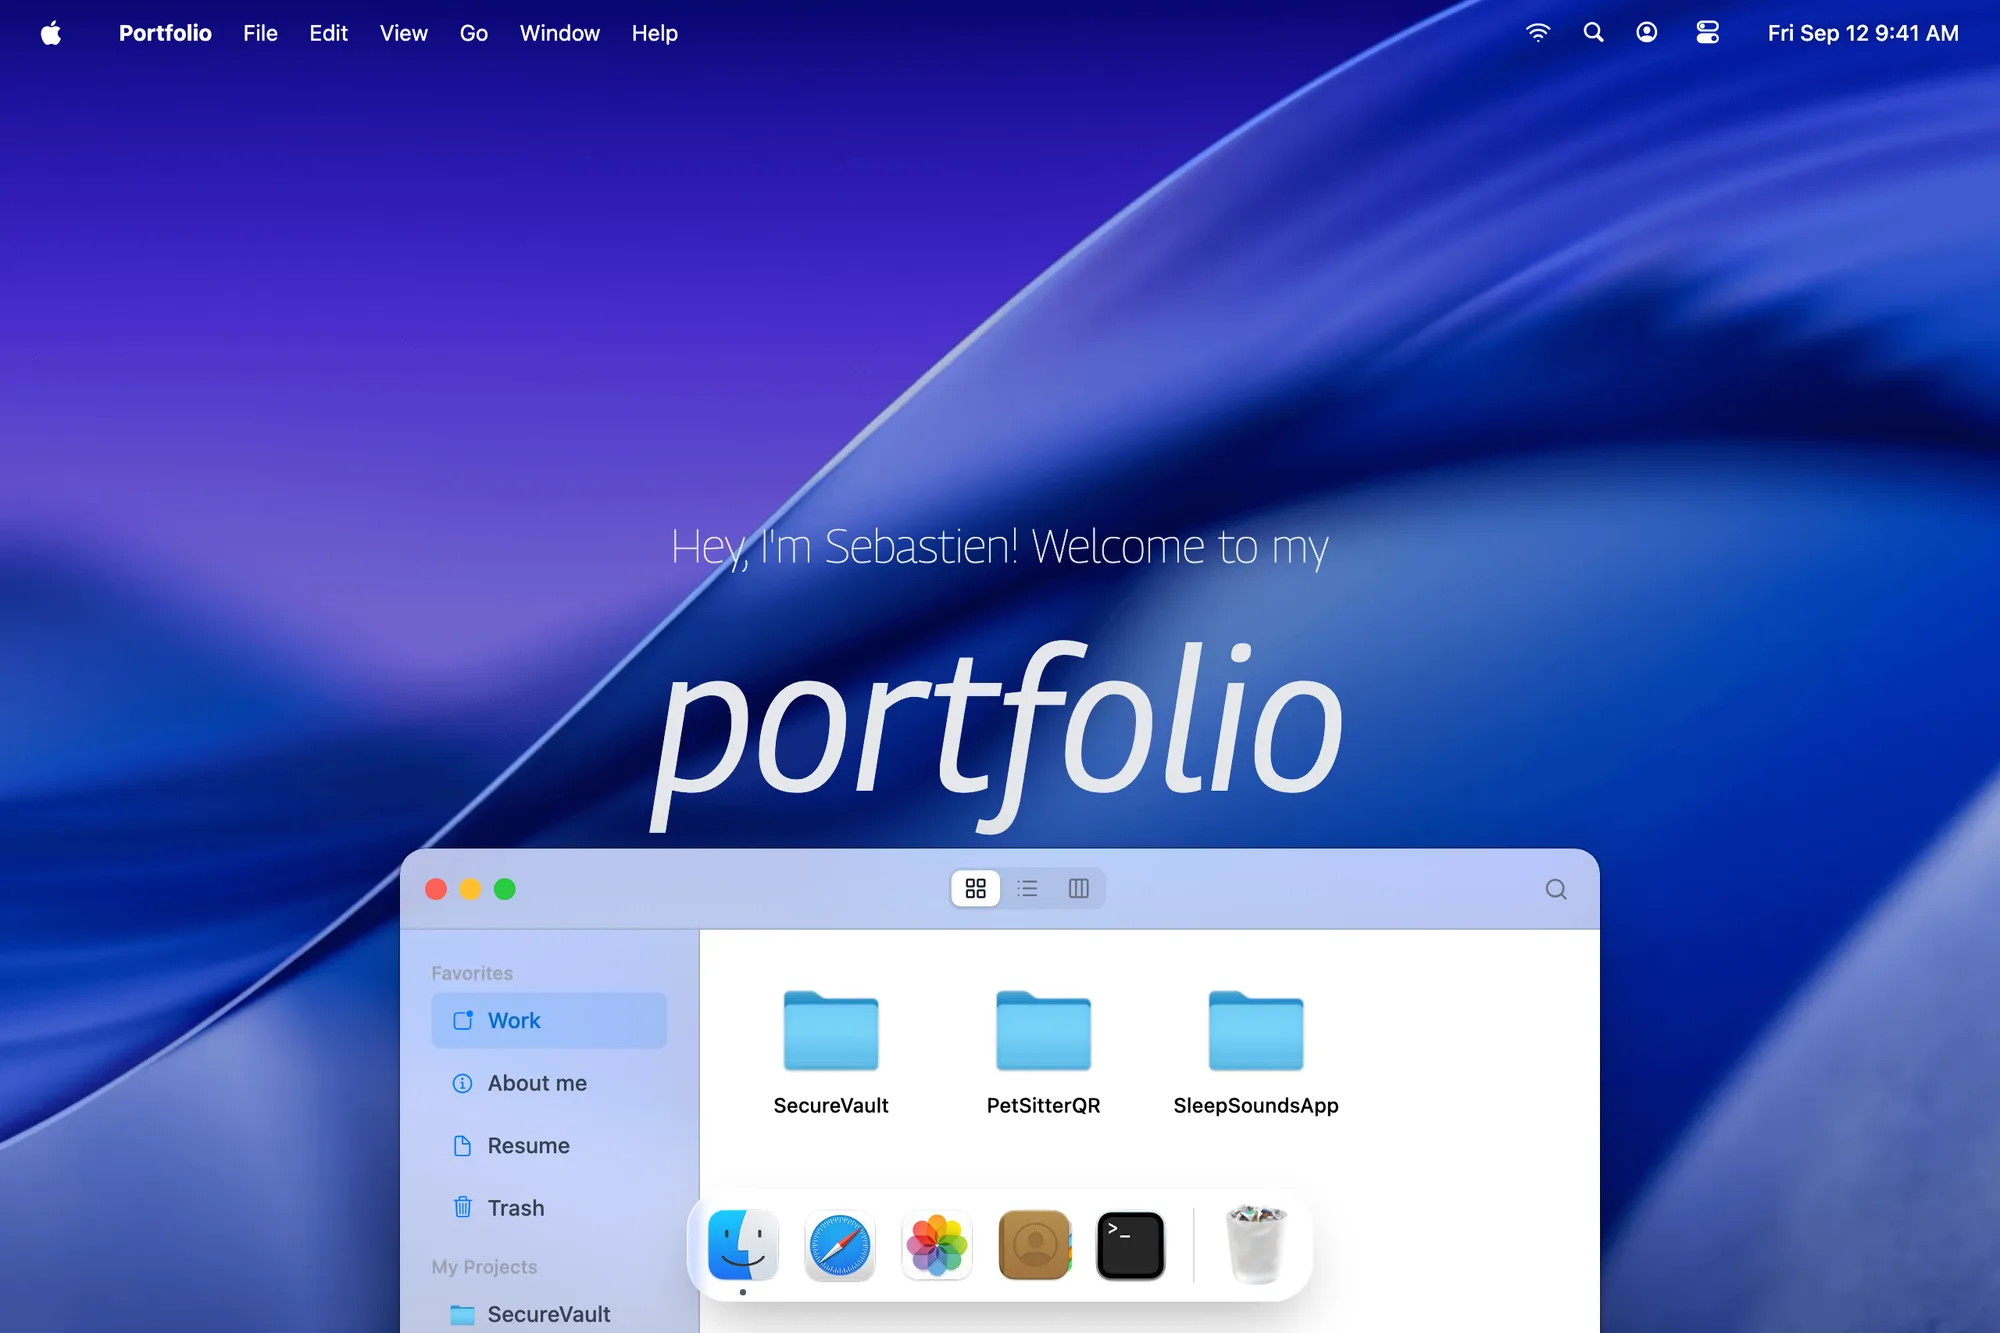
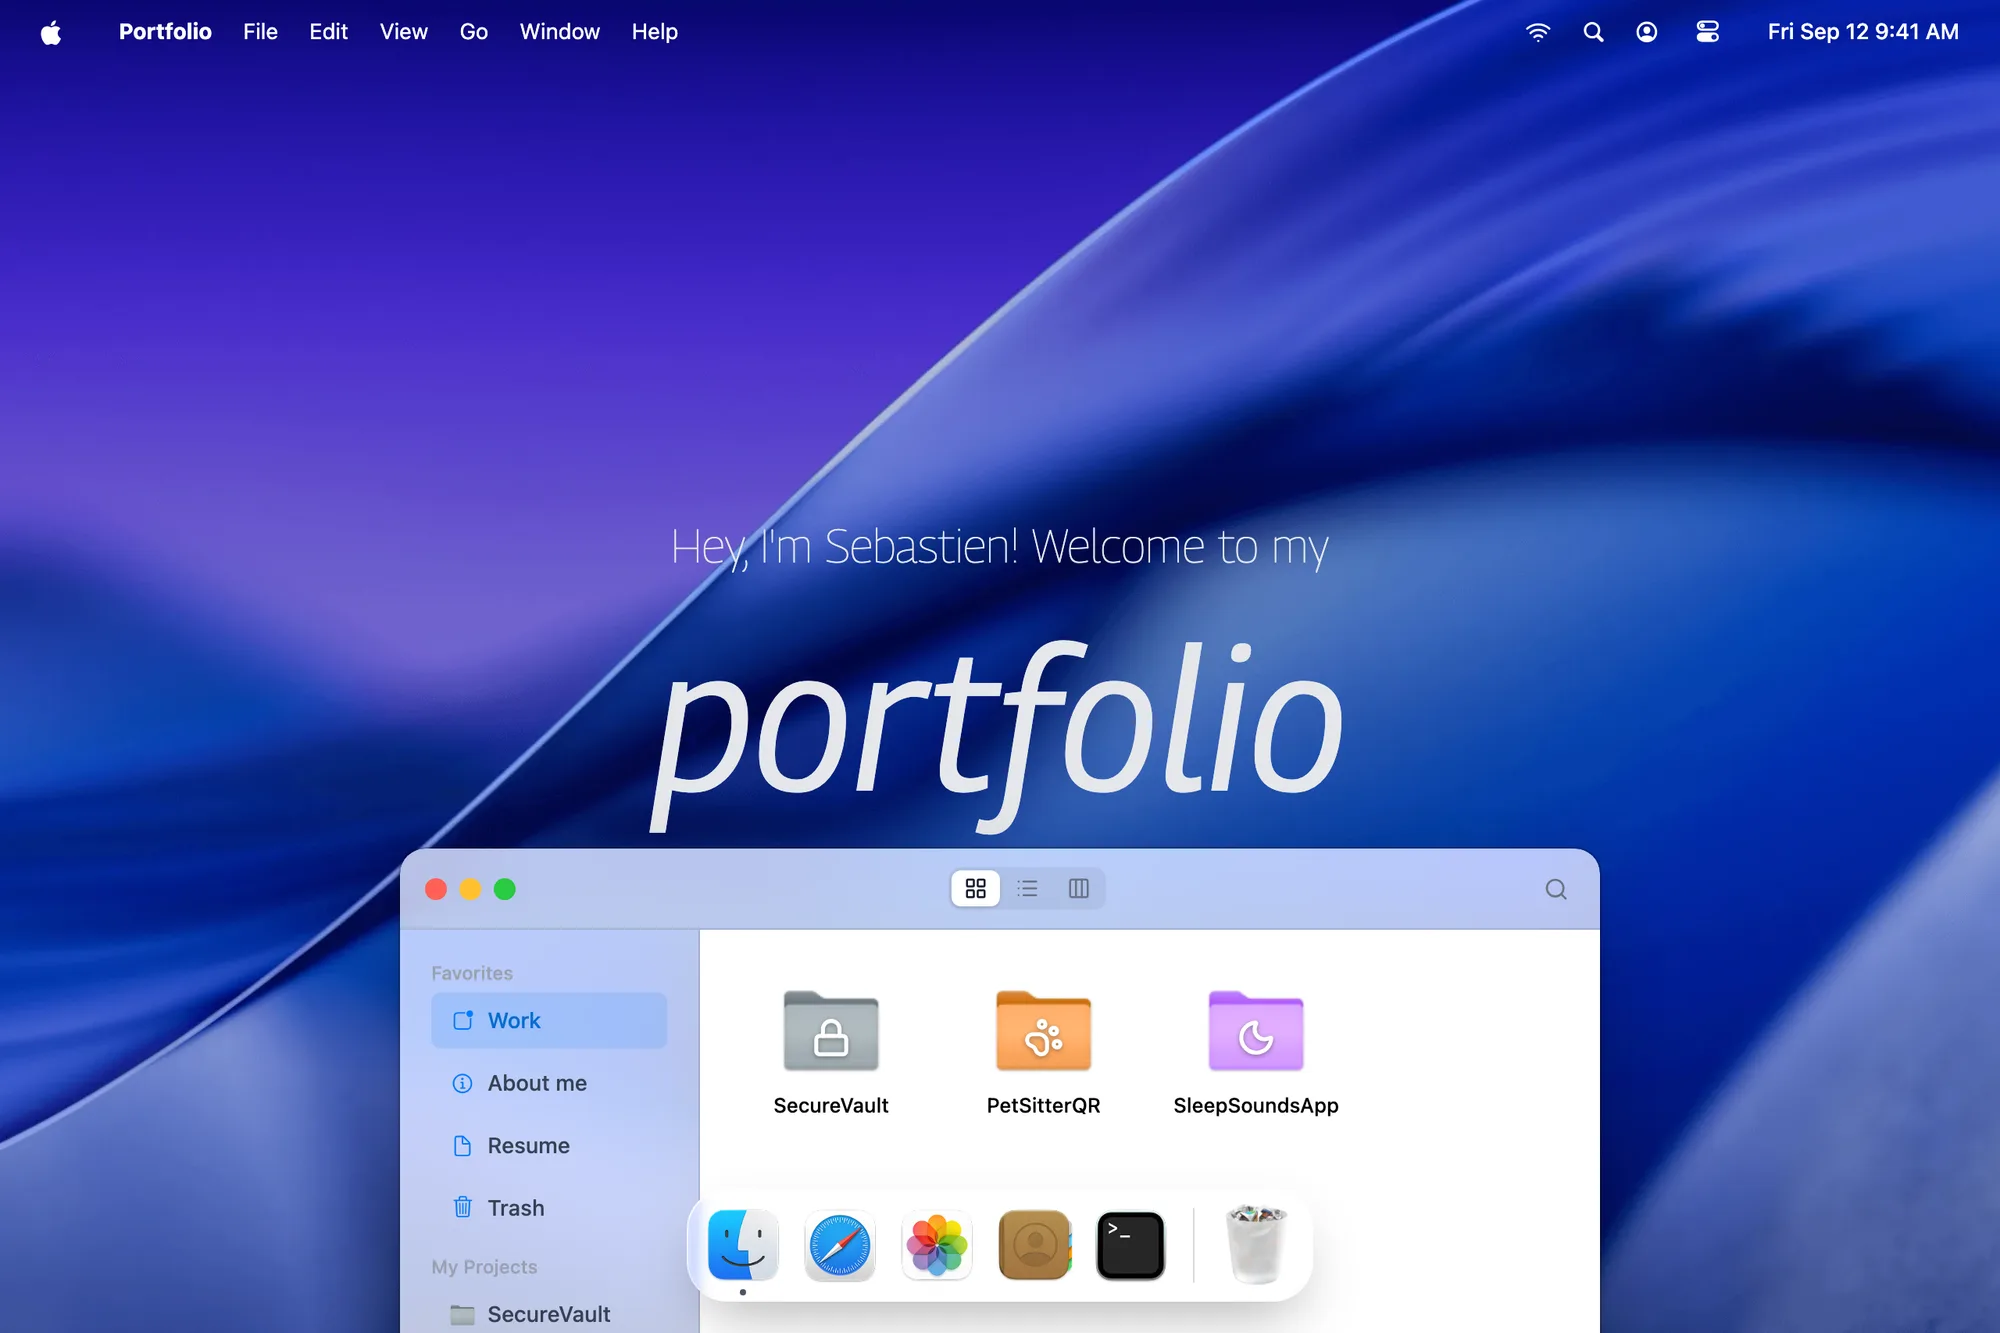
docs: describe what the app now does
The feature list had fallen a long way behind. Spotlight was "a searchable
launcher", with nothing about Actions, Quick Keys or the browse modes;
Control Center was four controls when it is now a connectivity group, a
Focus that silences notifications, and two sub-panes; Quick Look, folder
customisation and Get Info were absent entirely, as were the phone's
widget, its search and the Dynamic Island.

Two entries were describing things that no longer exist. The desktop
bullet still promised icons with multi-select, rubber-band selection and
drag, and the keyboard bullet leaned on those icons as its Tab story --
both removed in "refactor: clear the desktop", well before any of this.
Documentation that claims a feature nobody can find is worse than
documentation missing one, so they go.

Reduce Transparency joins Reduced Motion under Accessibility, where its
twin already was.

Screenshots regenerated through `npm run screenshots`, so the pair at the
top shows the coloured folders, the widget, the search pill and the
Dynamic Island rather than a version from before them. That also refreshes
public/og.jpg, which is composed from the same run.

diff --git a/README.md b/README.md
@@ -7,13 +7,13 @@ On a phone it becomes an iOS-style Home Screen instead: same content, same prefe
 <p align="center">
   <img
     src="docs/screenshot.webp"
-    alt="The desktop shell: a macOS-style menu bar, project folders on the desktop, the portfolio hero, and a magnifying dock."
+    alt="The desktop shell: a macOS-style menu bar, the portfolio hero, a Finder window showing three colour-coded project folders, and a magnifying dock."
     width="67%"
     align="top"
   />
   <img
     src="docs/screenshot-mobile.webp"
-    alt="The phone shell: an iOS-style Home Screen with app icons, the portfolio hero, and a dock."
+    alt="The phone shell: an iOS-style Home Screen with app icons, a Projects widget, the portfolio hero, a search pill, and a dock."
     width="21%"
     align="top"
   />
@@ -27,11 +27,15 @@ On a phone it becomes an iOS-style Home Screen instead: same content, same prefe
 - **Menu bar** – A working Apple menu, per-app menus that swap when you focus a different window (File, Edit, View, Go, Window, Help), a live clock, and a menu bar that tints its own glyphs dark when the wallpaper behind it is bright.
 - **Window management** – Windows open, focus, minimize, zoom, drag by their title bar and resize from the corner. Position and size persist. Drag a window to a screen edge to tile it left, right or full, or use the menu behind the green button.
 - **Mission Control** – F3, ⌃↑ or the Window menu scales every open window into a grid to pick from.
-- **Spotlight** – ⌘K or ⌘Space opens a searchable launcher for every app and Finder location.
-- **Control Center & Notification Center** – Wi-Fi, appearance, brightness and volume from the menu bar; notifications and widgets behind the clock.
-- **Finder** – Icon, list and column views over a configurable folder tree, with a sidebar, path bar and working Trash.
-- **Desktop** – Icons with click, ⌘/⇧ multi-select, rubber-band selection and drag, plus right-click menus on the desktop and the dock.
-- **Appearance** – Light, Dark or Auto (follows the OS and re-resolves when it flips), alongside macOS-style wallpapers and custom image upload. Persisted in `localStorage`.
+- **Spotlight** – ⌘K or ⌘Space opens it. Searches apps, projects, files, posts and links, and — as macOS 26 does — it can be browsed rather than only searched: ⌘1–⌘4 switch between Apps, Files, Actions and Clipboard History.
+- **Spotlight Actions** – The half of Spotlight that does something rather than opening something. Email, copy the address, download the CV, copy a link to the current view, flip the appearance, change the wallpaper, Mission Control, empty the Trash. Each has a two-letter Quick Key (`em`, `ce`, `dr`, …) that outranks a title starting the same way, and the keys are printed in the row rather than left to be guessed at.
+- **Quick Look** – Space previews whatever is selected without opening it: an image shows the image, a text file its write-up, a folder what is inside it. Escape or Space again puts it away.
+- **Control Center** – Wi-Fi, Bluetooth and AirDrop as one grouped tile, Focus, appearance, display and sound. Focus and Sound drill into their own panes, and a Focus is not decorative — turning one on silences Notification Center.
+- **Notification Center** – Notifications and widgets behind the clock, drawn from the real content so they cannot drift from what the site says.
+- **Finder** – Icon, list and column views over a configurable folder tree, with a sidebar, path bar and working Trash. One click selects and two open, as the Finder does, which is what makes spacebar preview reachable from a pointer.
+- **Folder colours and badges** – macOS 26's folder customisation. Right-click a folder → Get Info to give it any of nine tints and a badge; the swatches are the folder artwork under the same hue rotation the icons use, so what you pick is what gets drawn. Overrides only, so Reset returns a folder to whatever the content authored.
+- **Desktop** – Right-click menus on the desktop and the dock.
+- **Appearance** – Light, Dark or Auto (follows the OS and re-resolves when it flips), alongside macOS-style wallpapers — Tahoe through Big Sur — and custom image upload. Persisted in `localStorage`.
 - **Accent colour** – Eight colours, running through every selection, highlight, sidebar glyph and focus ring in both shells. One CSS variable on `<main>`; nothing is hardcoded blue any more.
 - **Icon styles** – macOS 26's Default, Dark, Clear and Tinted. Worked out of flat artwork rather than layered icons: Dark and Clear are filters, and Tinted is a masked overlay in `mix-blend-mode: color`, which takes hue from the accent and leaves each icon's own light and shade underneath — so a tinted icon keeps its modelling instead of flattening to a silhouette.
 - **Interactive terminal** – A zsh-style terminal with command history. Try `help`, `ls`, `open safari`, `stack`, `neofetch`, or `sudo`.
@@ -40,9 +44,11 @@ On a phone it becomes an iOS-style Home Screen instead: same content, same prefe
 
 Below 768px – or on a touch device too short for a desktop, i.e. a phone held sideways – the desktop is not merely hidden, it never mounts. A Home Screen renders in its place.
 
-- **Home Screen** – App icons, a dock, a live status bar, and web shortcuts to your links. Tapping an icon zooms the app out of that icon's own box.
+- **Home Screen** – App icons, a dock, a status bar with a Dynamic Island, and web shortcuts to your links. Tapping an icon zooms the app out of that icon's own box.
+- **Projects widget** – The work, on the Home Screen where iOS puts widgets. Each tile opens Files already drilled into that project, so it is a shortcut rather than a picture of one.
+- **Search** – The pill iOS puts above the dock, opening a sheet over the blurred wallpaper. It indexes what the desktop's Spotlight walks — apps, projects, the files inside them, articles, links — since someone on a phone is looking for the same things.
 - **Eight full-screen apps** – Portfolio (Files), Articles, Gallery, Contact, Resume, Terminal, Settings and About, each reading the same content and preferences as its desktop counterpart.
-- **Control Center** – Pulled down from the status bar, sharing Wi-Fi, appearance, brightness and volume with the desktop panel.
+- **Control Center** – Pulled down from the status bar, sharing every control with the desktop panel: connectivity, Focus, appearance, brightness and volume.
 - **Back leaves the app, not the site** – Each app sits one history entry deep, so the phone's Back gesture steps out to the Home Screen.
 - **Honours `prefers-reduced-motion`** – The open and dismiss animations are skipped rather than shortened.
 
@@ -67,7 +73,8 @@ Segments are slugs of the names in `src/constants/index.ts`, so renaming a folde
 ### Accessibility
 
 - **Reduced motion** – `prefers-reduced-motion` is honoured in both shells. The boot sequence is skipped, windows open and minimise without travelling, the dock stops magnifying, the hero's letters stop thickening, and every CSS transition and keyframe is collapsed. GSAP opts out through `src/utils/motion.ts`; the CSS side is one rule in `src/index.css`.
-- **Keyboard** – The menu bar takes ↑/↓ within a menu and ←/→ along the bar, with Escape handing focus back to the title. The Apple menu and the right-click menus share the same arrow-key handling. Desktop icons are real buttons: Tab reaches them, Enter opens them. Spotlight is a combobox driving a listbox, so each result is announced as it is highlighted.
+- **Reduced transparency** – `prefers-reduced-transparency` is honoured too, which for a design built on Liquid Glass is the setting that matters most. Every surface goes opaque and every blur is dropped, including the menu bar, which normally has no material of its own. System Settings → Accessibility can also force it on, with no option to force it back off: an app does not get to override an accessibility preference upward.
+- **Keyboard** – The menu bar takes ↑/↓ within a menu and ←/→ along the bar, with Escape handing focus back to the title. The Apple menu and the right-click menus share the same arrow-key handling. Every menu bar control is a real button, so Spotlight and Notification Center are reachable without a pointer. In the Finder, Tab moves the selection, Enter opens and Space previews. Spotlight is a combobox driving a listbox, so each result is announced as it is highlighted.
 - **Focus** – A visible ring on every control, `:focus-visible` so it appears for the keyboard and stays out of a mouse user's way, with a halo that keeps it legible over any wallpaper.
 
 ## Tech Stack
@@ -117,7 +124,9 @@ Most of the portfolio data lives in `src/constants/index.ts`, and both shells re
 
 - `navLinks`, `dockApps` – the menu and dock labels/icons.
 - `wallpapers` – the wallpaper presets offered in System Settings.
-- `locations` – powers the Finder-like explorer, including folders, files, descriptions, and external links.
+- `locations` – powers the Finder-like explorer, including folders, files, descriptions, and external links. A folder can also carry a `folderColor` and a `folderBadge`, which is the look it ships with before anyone changes it in Get Info.
+- `contactEmail` – the address the Contact window prints and Spotlight's copy actions write to the clipboard. One copy, so the two cannot disagree.
+- `focusModes`, `soundOutputs` – what Control Center's Focus and Sound panes list.
 - `blogPosts`, `techStack`, `socials`, `gallery`, `aboutSpecs` – drive the Safari, Terminal, Contact, Photos, and About This Mac windows.
 
 Two files configure a shell rather than its content:
@@ -143,13 +152,14 @@ Each file is only rewritten when something visibly moved. The clock is pinned to
 
 ```
 src/
-  components/     # Navbar, Dock, Spotlight, Mission Control, Control Center, …
+  components/     # Navbar, Dock, Spotlight, Quick Look, Get Info, Control Center, …
   windows/        # Finder, Safari, Terminal, Contact, Resume, Photos, Settings, About
   hoc/            # WindowWrapper HOC: animations, dragging, tiling, resizing
-  mobile/         # The phone shell: Home Screen, app frame, and its eight apps
-  store/          # Zustand stores for window, layout, location, snap and system state
+  mobile/         # The phone shell: Home Screen, widget, search, and its eight apps
+  store/          # Zustand stores for window, layout, location, snap, system,
+                  #   Quick Look, Get Info, folder looks and clipboard history
   constants/      # Portfolio content configuration
-  utils/          # Terminal engine, menu actions, wallpaper luminance sampling
+  utils/          # Terminal engine, menu actions, clipboard, wallpaper luminance
   test/           # Vitest setup; the specs themselves sit beside what they test
   index.css       # Desktop styles, Liquid Glass utilities, design tokens
   mobile.css      # Phone styles (imported by index.css)
